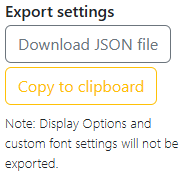
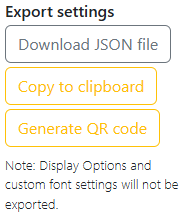
chore: update documentation for v1.5.0 preview

Changed region(s): [[0.0273, 0.0, 0.9563, 0.9659], [0.9016, 0.767, 0.9836, 0.8807]]

diff --git a/docs-dev/cardoverlay.md b/docs-dev/cardoverlay.md
@@ -1,0 +1,161 @@
+---
+title: Card Overlay
+layout: default
+parent: Features (Development)
+nav_order: 3
+---
+Coming Soon
+{: .label .label-yellow}
+# Card Overlay
+{: .no_toc}
+A card overlay is a customizable container that can be used to display any kind of information in a pop-up. It displays over all other elements on the page.
+
+![An example of a card overlay titled "Overlay example" with Lorem ipsum placeholder text in the body](/assets/images/docs-Development/cardoverlay/cardoverlay.png)
+
+## Table of contents
+{: .no_toc .text-delta }
+1. TOC
+{:toc}
+
+## How it works
+The card overlay function can take any content type of `HTMLElement` or `string`.
+
+Its styling is all hardcoded—the function handles everything related to the sizing and positioning of the card. The theme is set to the currently chosen theme in the menu.
+
+```ts
+// Function to create an overlay card element
+export function makeCardOverlay(title: string, content: HTMLElement | string): void {
+    // Create container
+    const container = document.createElement('div');
+    container.dataset.overlay = 'card-overlay';
+    container.dataset.bsTheme = menu.container.dataset.bsTheme;
+    Object.assign(container.style, {
+        position: 'fixed',
+        top: '0',
+        left: '0',
+        width: '100%',
+        height: '100%',
+        backgroundColor: 'rgba(0, 0, 0, 0.5)',
+        display: 'flex',
+        justifyContent: 'center',
+        alignItems: 'center',
+        zIndex: '10'
+    });
+
+    // Create card
+    const card = document.createElement('div');
+    Object.assign(card.style, {
+        width: 'fit-content',
+        maxHeight: '90vh',
+        overflow: 'auto'
+    });
+    card.className = 'card';
+
+    // Create card body
+    const cardBody = document.createElement('div');
+    cardBody.className = 'card-body';
+
+    // Create title
+    const titleElement = document.createElement('h5');
+    titleElement.className = 'card-title text-center';
+    titleElement.textContent = title;
+
+    // Create horizontal rule
+    const hr = document.createElement('hr');
+
+    // Create content container
+    const contentContainer = document.createElement('div');
+    if (typeof content === 'string') {
+        contentContainer.textContent = content;
+    } else {
+        contentContainer.appendChild(content);
+    }
+
+    // Create button container
+    const buttonContainer = document.createElement('div');
+    buttonContainer.className = 'mt-3 d-flex gap-2 justify-content-center';
+
+    // Create close button
+    const closeButton = document.createElement('button');
+    closeButton.className = 'btn btn-secondary';
+    closeButton.textContent = 'Close';
+
+    // Create escape key handler
+    function escapeHandler(e: KeyboardEvent) {
+        if (e.key === 'Escape') {
+            document.body.removeChild(container);
+            document.removeEventListener('keydown', escapeHandler);
+            logConsole(`Overlay card container with settings (${title}, ${content}) removed`, 'info');
+        }
+    }
+
+    closeButton.onclick = () => {
+        document.body.removeChild(container);
+        document.removeEventListener('keydown', escapeHandler);
+        logConsole(`Overlay card container with settings (${title}, ${content}) removed`, 'info');
+    };
+
+    // Create download button if content is downloadable media
+    if (content instanceof HTMLCanvasElement || content instanceof HTMLImageElement || content instanceof HTMLVideoElement) {
+        const downloadButton = document.createElement('button');
+        downloadButton.className = 'btn btn-primary';
+        downloadButton.textContent = 'Download';
+        downloadButton.onclick = () => {
+            const dlTime = luxon.DateTime.now().toFormat('X');
+            const link = document.createElement('a');
+            // Set filename based on content type
+            const extension = content instanceof HTMLVideoElement ? '.mp4' : '.png';
+            link.download = `${title}_${dlTime}${extension}`;
+            
+            // Get appropriate data URL based on content type
+            link.href = content instanceof HTMLCanvasElement ? 
+                content.toDataURL('image/png') : 
+                content.src;
+                
+            link.click();
+        };
+        buttonContainer.appendChild(downloadButton);
+    }
+
+    // Append buttons
+    buttonContainer.appendChild(closeButton);
+
+    // Append elements
+    cardBody.appendChild(titleElement);
+    cardBody.appendChild(hr);
+    cardBody.appendChild(contentContainer);
+    cardBody.appendChild(buttonContainer);
+    card.appendChild(cardBody);
+    container.appendChild(card);
+
+    // Add to document
+    document.body.appendChild(container);
+    document.addEventListener('keydown', escapeHandler);
+
+    logConsole(`Overlay card container created with settings: (${title}, ${content})`, 'info');
+}
+```
+
+## Parameters
+### title (string)
+The title of the overlay card. It will be displayed at the top of the card in a heading element.
+
+### content (HTMLElement | string)
+The content of the overlay card. HTMLElements are appended as-is, and strings will be set to the contentContainer's textContent.
+
+## Media elements
+The function accepts `HTMLImageElement`, `HTMLCanvasElement`, and `HTMLVideoElement` as media content. If passed one of these types, a download button will be added next to the close button.
+
+![An example of a card overlay titled "Overlay example" with an image in the body and a download button at the bottom](/assets/images/docs-Development/cardoverlay/cardoverlay-img.png)
+
+Images and other media will need to be included in the project's files, locally. External links to media will be blocked by the CSP (Content Security Policy) header.
+
+## In-use examples
+Currently, card overlays are used for QR code settings exports and debugging purposes.
+
+![The card overlay titled with "QR Code" and has a QR code image in the body](/assets/images/docs-Development/cardoverlay/cardoverlay-qr.png)
+
+{: .note }
+The QR code contains the JSON data of the settings. While it can be generated at any time, at the moment, it can't be scanned within Online Web Clock to import settings.
+
+

diff --git a/docs-dev/debugging.md b/docs-dev/debugging.md
@@ -1,0 +1,79 @@
+---
+title: Debugging
+layout: default
+parent: Features (Development)
+nav_order: 2
+---
+Coming Soon
+{: .label .label-yellow}
+# Debugging
+{: .no_toc}
+The Debugging section in the menu panel gives you many debug/testing options to help with development. This section is only visible when the `debugMode` URL parameter is set to true.
+
+{: .info}
+When `debugMode` is set to true, debug logging will also be enabled. See [URL Parameters](/docs/url-params).
+
+![A screenshot of the Debugging menu options.](/assets/images/docs-Development/debugging/debugging.png)
+
+## Table of contents
+{: .no_toc .text-delta }
+1. TOC
+{:toc}
+
+## Options
+### Debug info
+This section currently displays your User Agent string and may be updated to display other information in the future.
+
+![A screenshot of the Debug info User Agent text.](/assets/images/docs-Development/debugging/debuginfo.png)
+
+{: .info }
+The User Agent string shown above is of Chrome 131.0.0.0 running on Windows 11.
+
+### Dev Colors
+When [Solid mode](/docs/backgroundtheme#background-color-mode) is enabled, the Dev Colors section lets you choose a color from a list of hidden preset colors.
+
+Here are the list of dev colors:
+- `#27262B` - <span style="color: #27262B; font-weight: bolder; background-color: #FFF">Jekyll Dark</span>
+- `#232327` - <span style="color: #232327; font-weight: bolder; background-color: #FFF">Firefox Dark</span>
+- `#282828` - <span style="color: #282828; font-weight: bolder; background-color: #FFF">Chrome Dark</span>
+- `#1F1F1F` - <span style="color: #1F1F1F; font-weight: bolder; background-color: #FFF">GitHub Dark</span>
+- `#232327` - <span style="color: #232327; font-weight: bolder; background-color: #FFF">VS Code Dark</span>
+- `#2B2B2C` - <span style="color: #2B2B2C; font-weight: bolder; background-color: #FFF">Windows Dark</span>
+- `#212529` - <span style="color: #212529; font-weight: bolder; background-color: #FFF">Bootstrap Dark 1</span>
+- `#313539` - <span style="color: #313539; font-weight: bolder; background-color: #FFF">Bootstrap Dark 2</span>
+
+These specific colors were sourced from different UI elements from their respective applications.  
+As for Jekyll Dark, it matches this website's dark theme color so screenshots with that background color will blend in with the site.
+
+{: .warning }
+As these colors are intended for testing purposes only, they cannot be imported back into Online Web Clock and will return a verification error when uploaded.
+
+### Settings
+The two options in this section are for testing settings exports, specifically to check for any anomalies in the exported JSON data.
+
+![A screenshot of the Settings debugging options.](/assets/images/docs-Development/debugging/settings.png)
+
+The "Log JSON" button exports the current settings in JSON format to the console. This is useful for checking exported JSON without having to download the file.
+
+![A screenshot of the Settings "Log JSON" console output.](/assets/images/docs-Development/debugging/logjson.png)
+
+The "Extract BG image" button extracts the current background image and shows it in a card overlay, allowing you to view it independently of other page elements and download it, if you wish.
+
+![A screenshot of the Settings "Extract BG image" card overlay.](/assets/images/docs-Development/debugging/extractbg.png)
+
+### Toasts
+These buttons let you test the toast notifications and their different themes.
+
+![A screenshot of the Toasts debugging options.](/assets/images/docs-Development/debugging/toasts.png)
+
+When clicked, the buttons will spawn a Toastify toast with the corresponding theme. The default duration of 3 seconds is used.
+
+![A screenshot of the Toasts debugging options.](/assets/images/docs-Development/debugging/toast.png)
+
+### Card Overlay
+Here you can test the two forms of card overlays, one with regular text and the other containing media.
+
+![A screenshot of the Card Overlay debugging options.](/assets/images/docs-Development/debugging/cardoverlay.png)
+
+{: .info }
+For more info on card overlays, see [Card Overlay](/docs-dev/cardoverlay).

diff --git a/docs/importexport.md b/docs/importexport.md
@@ -29,11 +29,13 @@ The menu includes a few presets which you can import. They contain pre-configure
 
 ![A screenshot of the built-in presets buttons.](/assets/images/docs-Features/importexport/presets.png)
 
+You can also type the number next to the respective preset name to import it. For instance, you can press the number "<kbd>1</kbd>" on any screen to import the "AMOLED theme" preset.
+
 {: .note }
 As they are not automatically preloaded, you may need an internet connection to apply a preset if you are not serving the site locally and the presets are not already cached.
 
 ### Export settings
-You can export your currently selected settings to a JSON file by clicking the "Export" button, or by copying the raw JSON data to your clipboard.
+You can export your currently selected settings to a JSON file by clicking the "Export" button, by copying the raw JSON data to your clipboard, or by generating a QR code.
 
 ![A screenshot of the exporting buttons.](/assets/images/docs-Features/importexport/export.png)
 
@@ -43,7 +45,7 @@ Below is a table of the top-level keys in the settings JSON object:
 | Key | Valid values | Description |
 | --- | --- | --- |
 | exportTimestamp | `string` | The timestamp of when the settings were exported |
-| version | `7` | Hardcoded version number |
+| version | `7` | Hardcoded version number. Do not change. |
 
 #### clockConfig key
 Below is a table of the subkeys of the `clockConfig` object and their valid values.
@@ -93,6 +95,17 @@ Below is a table of the subkeys of the `colorTheme` object and their valid value
 
 {: .info }
 For more info on these settings, see [Background Theme](/docs/backgroundtheme).
+
+### QR Codes
+You can choose to export your JSON settings by generating a QR code. While you can generate a QR code at any time, you can't scan it in Online Web Clock, but you can scan the QR code with another app and copy the JSON data to your clipboard.
+
+![A card overlay with a QR code in its body.](/assets/images/docs-Development/cardoverlay/cardoverlay-qr.png)
+
+{: .note }
+The QR code above contains the JSON data for the AMOLED theme preset. Just to not keep you guessing... :P
+
+{: .warning }
+QR codes have a theoretical maximum capacity of 2,953 bytes of binary data. If your JSON export exceeds this limit—for example, if your have a large background image set—the QR code cannot be generated.
 
 ### What isn't exported?
 1. Time Zone

diff --git a/docs/displayoptions.md b/docs/displayoptions.md
@@ -95,30 +95,10 @@ If you don't like the dynamic tab title, where it updates along with the time, y
 | --- | --- |
 | ![A screenshop of the page with Tab Title enabled.](/assets/images/docs-Features/displayoptions/tabtitle-on.png) | ![A screenshop of the page with Tab Title disabled.](/assets/images/docs-Features/displayoptions/tabtitle-off.png) |
 
-## Fullscreen and Debugging
-The fullscreen toggle and the debug checkbox are the last two Display options.
+## Fullscreen
+This toggle button switches between fullscreen and windowed mode.
 
-![A screenshot of the Fullscreen and debug logging options.](/assets/images/docs-Features/displayoptions/fullscreen-debug.png)
+![A screenshot of the Fullscreen toggle button.](/assets/images/docs-Features/displayoptions/fullscreen.png)
 
-The fullscreen toggle is self-explanatory, and the debug checkbox enables and disables log debugging to the console.
-
-To clarify, Online Web Clock uses a custom function called `logConsole()` to log messages to the console. It will only actually log if debug logging is enabled. Here's the function:
-
-```ts
-// Custom console logging function
-export function logConsole(message: string, type: string = 'debug'):void {
-    if (menu.debugcheckbox.checked && type === 'debug') {
-        console.log(`DEBUG - ${message}`);
-    } else if (type === 'error') {
-        console.error(`ERROR - ${message}`);
-    } else if (type === 'warning') {
-        console.warn(`WARNING - ${message}`);
-    } else if (menu.debugcheckbox.checked && type === 'info') {
-        console.info(`INFO - ${message}`);
-    }
-}
-```
-
-The logic ensures that debug logging must be enabled to log DEBUG and <span style="color: #0DCAF0;">INFO</span> messages, but <span style="color: #FF5449;">ERROR</span> and <span style="color: #FE8D59;">WARNING</span> messages will always be logged.
-
-![A screenshot of the console with debug logging enabled. First, Iconify icons are preloaded, then a preset is manually loaded from the menu.](/assets/images/docs-Features/displayoptions/debug-console.png)
+{: .warning }
+The fullscreen toggle may not function correctly if you manually entered fullscreen mode with <kbd>F11</kbd>.

diff --git a/docs/url-params.md b/docs/url-params.md
@@ -18,7 +18,7 @@ In Online Web Clock, you can use URL Parameters to directly pass options into th
 
 | Parameter | Type | Description |
 | --- | --- | --- |
-| debug | boolean | Enables debug logging to the console |
+| debugMode | boolean | Enables debug logging and Debugging menu options |
 | darkMode | boolean | Enables dark mode |
 | panelVis | boolean | Toggles panel buttons visibility |
 | preset | filename | Load the `<filename>` JSON preset file from `/assets/` |

diff --git a/docs/backgroundtheme.md b/docs/backgroundtheme.md
@@ -74,7 +74,7 @@ function startColorFade() {
 ```
 
 #### Solid
-When Solid mode is selected, you can choose between 33 preset background colors.   
+When Solid mode is selected, you can choose between 33 preset background colors.  
 Here are the list of preset colors: (<a href='#custom-image'>Skip to Custom Image section</a>)
 ##### Basic Colors
 - `#FF0000` - <span style="color: #FF0000; font-weight: bolder;">Basic red</span>

diff --git a/docs-dev/index.md b/docs-dev/index.md
@@ -1,0 +1,11 @@
+---
+title: Features (Development)
+layout: default
+nav_order: 4
+---
+# Features
+{: .no_toc}
+A list of all the dev utilities in Online Web Clock.
+
+1. TOC
+{:toc}
